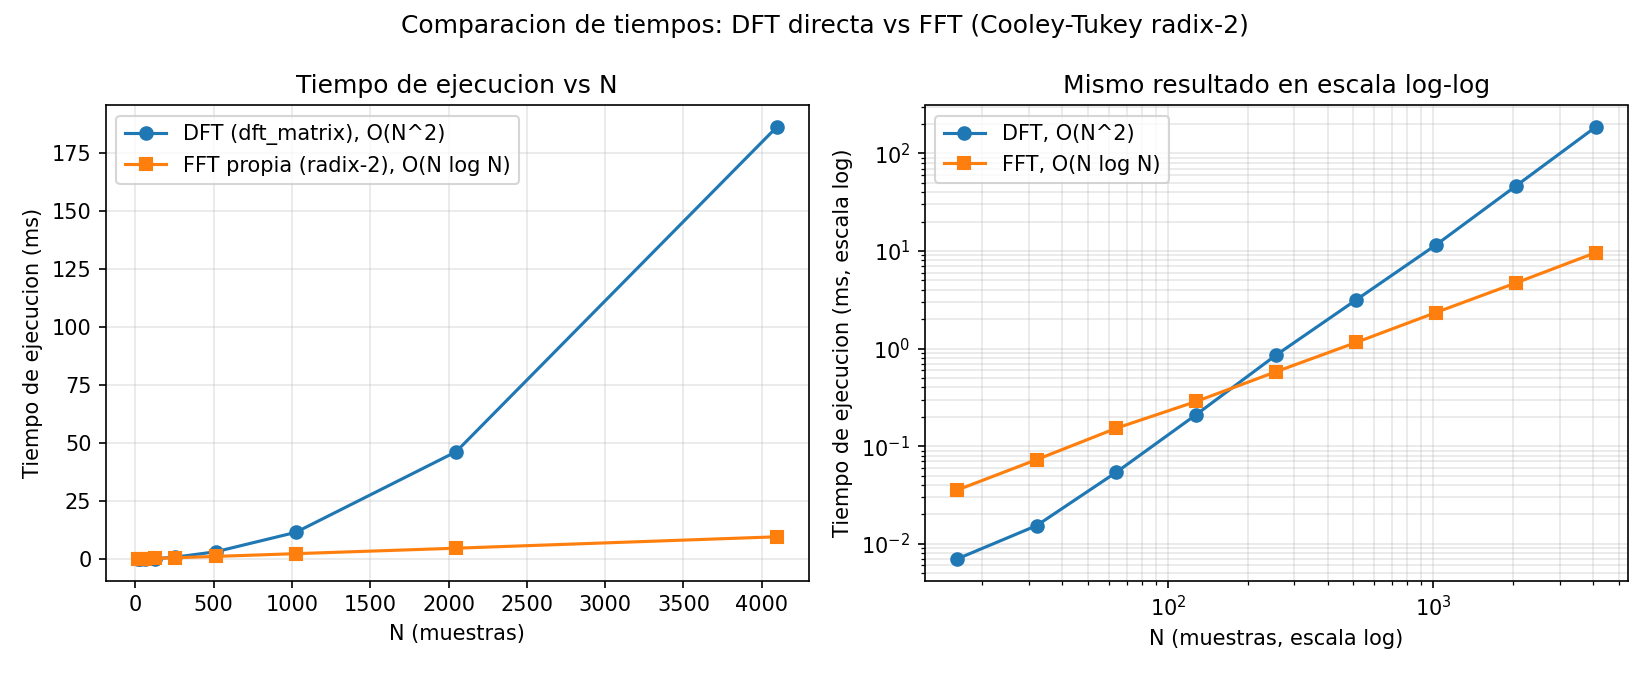
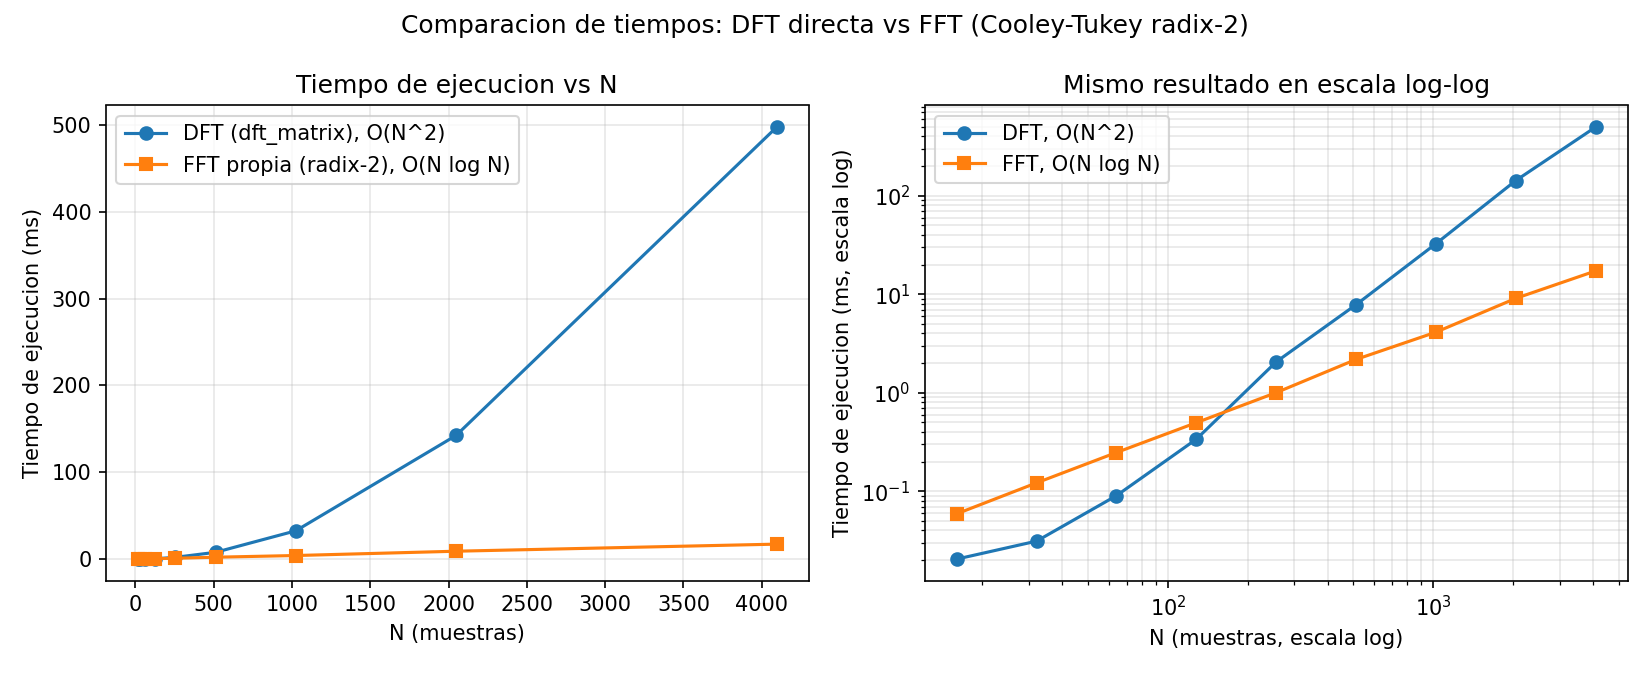
feat(parte2): Implementacion de magnitud y fase de diferentes señales

diff --git a/experimentos_fft_ecos/fft/magnitud_fase.py b/experimentos_fft_ecos/fft/magnitud_fase.py
@@ -1,0 +1,121 @@
+"""
+magnitud_fase.py
+
+Experimentos de magnitud y fase utilizando la FFT propia.
+"""
+
+import numpy as np
+import matplotlib.pyplot as plt
+import os
+import sys
+sys.path.append(os.path.join(os.path.dirname(__file__), "..", "dsp"))
+from transformadas import fft_radix2
+
+FIG_DIR = os.path.join(os.path.dirname(__file__), "figuras")
+os.makedirs(FIG_DIR, exist_ok=True)
+
+def obtener_espectro(x, fs):
+    """
+    Calcula las frecuencias, magnitudes y fases positivas de una señal.
+
+    """
+    N = len(x)
+
+    X = fft_radix2(x)
+
+    # Para una señal real, la segunda mitad de la FFT
+    # contiene información simétrica, por lo que se usa
+    # solamente el espectro positivo.
+    mitad = N // 2 + 1
+
+    X = X[:mitad]
+
+    frecuencias = np.arange(mitad) * fs / N
+
+    # Normalización para recuperar aproximadamente
+    # las amplitudes originales.
+    magnitud = np.abs(X) / N
+
+    # Las frecuencias positivas representan también
+    # su componente negativa correspondiente.
+    magnitud[1:-1] *= 2
+
+    fase = np.angle(X)
+
+    # Elimina pequeños errores numericos alrededor de 0 rad
+    fase[np.isclose(fase, 0.0, atol=1e-10)] = 0.0
+
+    # La fase no tiene significado cuando prácticamente
+    # no existe una componente en esa frecuencia.
+    umbral = np.max(magnitud) * 1e-6
+    fase[magnitud < umbral] = np.nan
+
+    return frecuencias, magnitud, fase
+
+
+def graficar_senal(t, x, frecuencias, magnitud, fase, titulo, numero_figura):
+    """Grafica la señal en tiempo, su magnitud y su fase."""
+    fig, ax = plt.subplots(3, 1, figsize=(9, 8))
+
+    ax[0].plot(t, x)
+    ax[0].set_title(f"{titulo} - Dominio del tiempo")
+    ax[0].set_xlabel("Tiempo (s)")
+    ax[0].set_ylabel("Amplitud")
+    ax[0].grid(True)
+    ax[0].set_xlim(0, 0.1)
+
+    ax[1].stem(frecuencias, magnitud)
+    ax[1].set_title("Espectro de magnitud")
+    ax[1].set_xlabel("Frecuencia (Hz)")
+    ax[1].set_ylabel("Magnitud")
+    ax[1].grid(True)
+
+    ax[2].stem(frecuencias, np.degrees(fase))
+    ax[2].set_title("Espectro de fase")
+    ax[2].set_xlabel("Frecuencia (Hz)")
+    ax[2].set_ylabel("Fase (grados)")
+    ax[2].grid(True)
+
+    fig.tight_layout()
+    plt.show()
+
+    
+    out_path = os.path.join(FIG_DIR, f"magnitud_fase{numero_figura}.png")
+    fig.savefig(out_path, dpi=150)
+    print("Figura guardada en", out_path)
+
+
+def analizar_senal(x, t, fs, titulo, fig):
+    """Calcula y muestra el espectro de una señal."""
+    frecuencias, magnitud, fase = obtener_espectro(x, fs)
+
+    graficar_senal(t, x, frecuencias, magnitud, fase, titulo, fig)
+
+
+def main():
+    fs = 4096
+    N = 4096
+
+    t = np.arange(N) / fs
+
+    # Experimento 1:
+    # Una componente de 500 Hz sin desplazamiento de fase.
+    x1 = np.cos(2 * np.pi * 500 * t)
+
+    analizar_senal( x1, t, fs, "Señal de 500 Hz y fase 0°", 1)
+
+    # Experimento 2:
+    # La misma frecuencia con un desfase de 45°.
+    x2 = np.cos( 2 * np.pi * 500 * t  + np.pi / 4  )
+
+    analizar_senal( x2, t, fs, "Señal de 500 Hz y fase 45°" , 2)
+
+    # Experimento 3:
+    # Dos componentes con diferentes amplitudes y fases.
+    x3 = (np.cos(2 * np.pi * 500 * t) + 0.5 * np.cos( 2 * np.pi * 1200 * t + np.pi / 3))
+
+    analizar_senal(x3, t, fs, "Señal compuesta de 500 Hz y 1200 Hz", 3)
+
+
+if __name__ == "__main__":
+    main()
